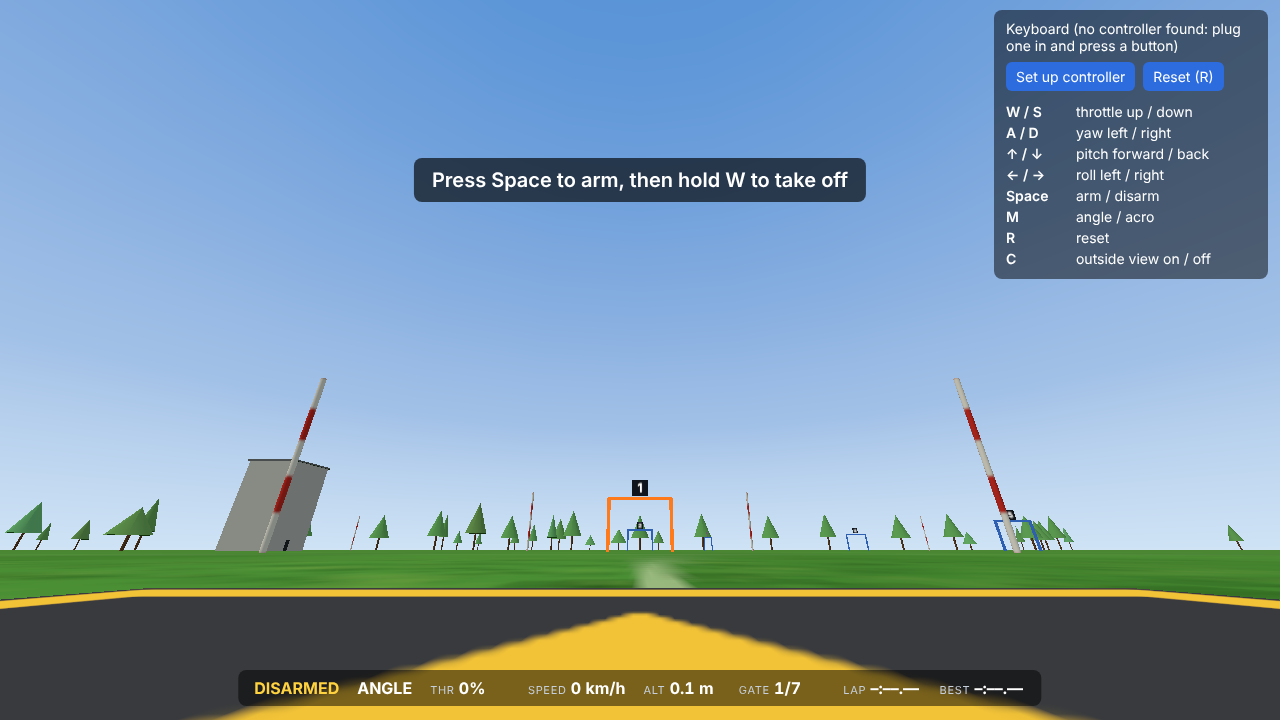
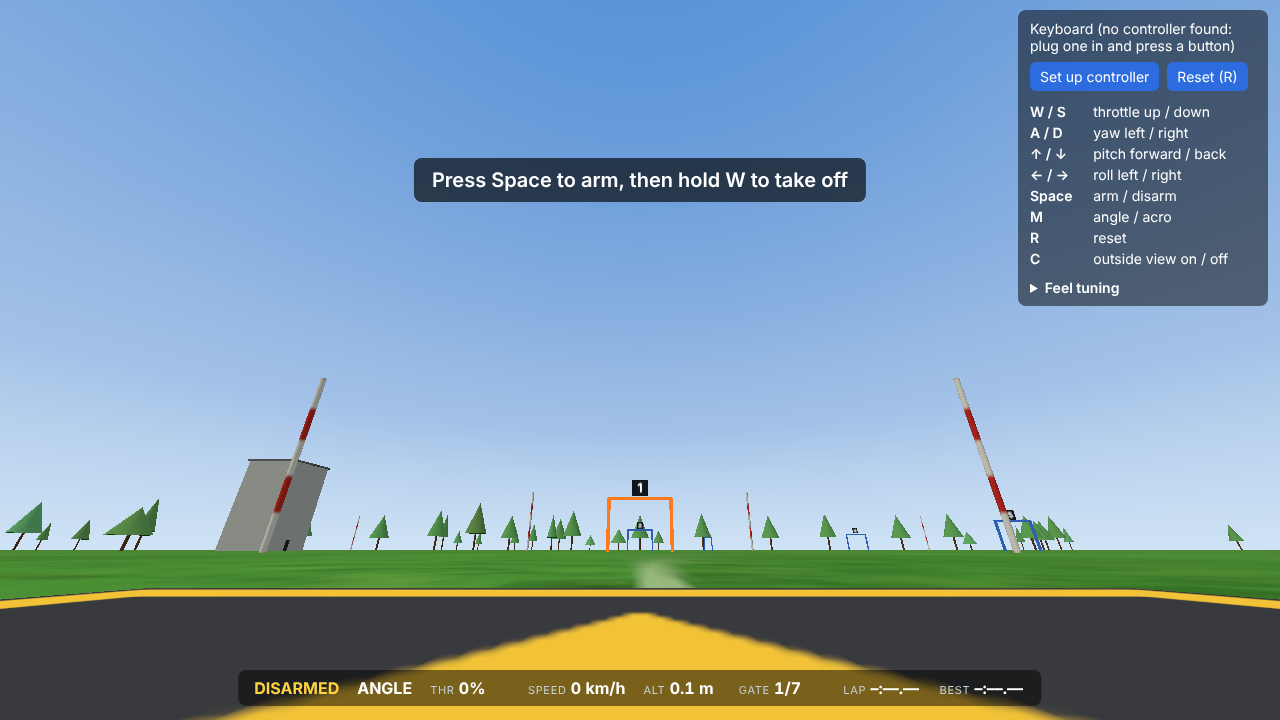
M5 feel: Feel tuning panel (preset, 8 sliders, Reset to default), Trainer preset, spring-stick throttle centred on hover, unit + browser checks

Changed region(s): [[0.75, 0.0, 1.0, 0.4278]]

diff --git a/src/main.js b/src/main.js
@@ -9,6 +9,8 @@ import { InputManager, KEY_HELP } from './input.js';
 import { SetupScreen } from './setup.js';
 import { createWorld } from './world.js';
 import { buildScene, buildGates, buildQuadModel, verticalFov } from './scene.js';
+import { PRESETS } from './params.js';
+import { SLIDERS, defaultTuning, sanitizeTuning, buildConfig, loadTuning, saveTuning } from './tuning.js';
 import { createRace, resetRace, raceUpdate, formatLap, loadBest, saveBest } from './course.js';
 
 // View settings (M6 puts these in the settings panel).
@@ -19,19 +21,32 @@ const view = {
 };
 const CRASH_PAUSE = 1.5; // s shown "crashed" before the automatic reset
 
+let storage = null;
+try { storage = window.localStorage; } catch { /* blocked: settings and best lap last until the page closes */ }
+const params = new URLSearchParams(location.search);
 const world = createWorld();
 const sim = createSim({ mode: MODES.ANGLE, world });
 // Sticks the sim flies on: copied from the controller/keyboard each frame, unless a test script has taken over.
 const sticks = { roll: 0, pitch: 0, yaw: 0, throttle: 0 };
 const input = new InputManager(window);
 const setup = new SetupScreen(input);
+// Feel tuning: preset + sliders (src/tuning.js). ?preset=freestyle|trainer in the URL starts from that preset's defaults.
+let tuning = params.has('preset') ? defaultTuning(params.get('preset')) : (storage && loadTuning(storage)) || defaultTuning();
+let config = null;
+function applyTuning(next, save = true) {
+  tuning = sanitizeTuning(next);
+  config = buildConfig(tuning);
+  Object.assign(sim.quad, config.quad);
+  Object.assign(sim.fcCfg, config.fc);
+  input.tune = config.input;
+  if (save && storage) saveTuning(storage, tuning);
+  if (typeof renderTuning === 'function') renderTuning();
+}
 let scripted = false; // true once the flight script drives the sticks directly (window.__sim.setSticks)
 let crashTimer = 0;
 let crashes = 0;
 
 // Gate course and lap timer. The best lap is kept in the browser (localStorage), per course.
-let storage = null;
-try { storage = window.localStorage; } catch { /* blocked: best lap lasts until the page closes */ }
 const race = createRace(world.course, storage ? loadBest(world.course, storage) : null);
 let racePrev = null;      // quad position and sim time at the previous frame
 let toast = null;         // { text, best, left } message in the middle of the screen (lap done)
@@ -49,7 +64,8 @@ function toggleMode() { sim.mode = sim.mode === MODES.ACRO ? MODES.ANGLE : MODES
 // Test hook: the Playwright flight script (test/flight.mjs) drives and reads the sim through this.
 const hook = (window.__sim = {
   ready: false, frames: 0, errors: [], physicsHz: PHYSICS_HZ, physicsSteps: 0,
-  sim, sticks, input, setup, view, world, race, get scene() { return scene; }, get camera() { return camera; },
+  sim, sticks, input, setup, view, world, race, get tuning() { return tuning; }, get config() { return config; },
+  setTuning(t) { applyTuning({ ...tuning, ...t }); }, get scene() { return scene; }, get camera() { return camera; },
   setSticks(s) { scripted = true; Object.assign(sticks, s); },
   arm(on = true) { scripted = true; sim.armed = on; },
   setMode(m) { sim.mode = m; },
@@ -85,10 +101,30 @@ const keysEl = document.getElementById('keys');
 keysEl.innerHTML = KEY_HELP.map(([k, v]) => `<tr><td>${k}</td><td>${v}</td></tr>`).join('');
 document.getElementById('btn-setup').addEventListener('click', (e) => { e.currentTarget.blur(); setup.start(); });
 document.getElementById('btn-reset').addEventListener('click', (e) => { e.currentTarget.blur(); resetFlight(); });
+
+// Feel tuning panel.
+const presetEl = document.getElementById('tune-preset'), slidersEl = document.getElementById('tune-sliders'), tuneInfo = document.getElementById('tune-info');
+presetEl.innerHTML = Object.entries(PRESETS).map(([k, p]) => `<option value="${k}">${p.label}</option>`).join('');
+slidersEl.innerHTML = SLIDERS.map((s) => `<label class="tune-row"><span>${s.label}</span><output id="tune-out-${s.key}"></output>
+  <input type="range" id="tune-${s.key}" min="${s.min}" max="${s.max}" step="${s.step}"></label>`).join('');
+function renderTuning() {
+  presetEl.value = tuning.preset;
+  for (const s of SLIDERS) {
+    const v = s.key === 'throttleMid' ? config.input.throttleMid : tuning[s.key];
+    document.getElementById('tune-' + s.key).value = String(v);
+    document.getElementById('tune-out-' + s.key).textContent = s.show(v) + (s.key === 'throttleMid' && tuning.throttleMid === null ? ' (hover)' : '');
+  }
+  tuneInfo.textContent = `Hovers at ${Math.round(config.hover * 100)}% throttle. Throttle centre and expo apply to spring-centred sticks (gamepads).`;
+}
+presetEl.addEventListener('change', () => applyTuning({ ...tuning, preset: presetEl.value }));
+for (const s of SLIDERS) document.getElementById('tune-' + s.key).addEventListener('input', (e) => applyTuning({ ...tuning, [s.key]: Number(e.target.value) }));
+for (const el of [presetEl, ...slidersEl.querySelectorAll('input')]) el.addEventListener('change', () => el.blur()); // give the keys back to flying
+document.getElementById('tune-reset').addEventListener('click', (e) => { e.currentTarget.blur(); applyTuning(defaultTuning(tuning.preset)); });
+applyTuning(tuning, false);
 window.addEventListener('keydown', (e) => { if (e.code === 'KeyC' && !e.repeat) view.chase = !view.chase; });
 
 // ?fast in the URL turns antialiasing off (slow machines, and the software-GL test browser).
-const fast = new URLSearchParams(location.search).has('fast');
+const fast = params.has('fast');
 const renderer = new THREE.WebGLRenderer({ canvas, antialias: !fast });
 renderer.setPixelRatio(Math.min(window.devicePixelRatio, 2));
 const scene = buildScene(world, renderer, { fast });

diff --git a/src/tuning.js b/src/tuning.js
@@ -1,0 +1,64 @@
+// Feel tuning: a preset plus a few named sliders, turned into sim and input settings. Pure except load/save.
+// Defaults are the sourced values (docs/feel.md); "Reset to default" goes back to them.
+import { defaultQuad, defaultFc, hoverStick, PRESETS, DEFAULT_PRESET } from './params.js';
+
+export const TUNING_KEY = 'fpvsim.tuning.v1';
+
+// key, label, range, and how the value is shown.
+export const SLIDERS = [
+  { key: 'rateMax', label: 'Max rate (full stick)', min: 200, max: 1200, step: 10, show: (v) => `${v}°/s` },
+  { key: 'rateCenter', label: 'Centre sensitivity', min: 20, max: 300, step: 5, show: (v) => `${v}°/s` },
+  { key: 'expo', label: 'Expo', min: 0, max: 1, step: 0.05, show: (v) => v.toFixed(2) },
+  { key: 'responsiveness', label: 'Responsiveness', min: 0.3, max: 1.5, step: 0.05, show: (v) => `${Math.round(v * 100)}%` },
+  { key: 'floatiness', label: 'Floatiness', min: 0.5, max: 2, step: 0.05, show: (v) => `${Math.round(v * 100)}%` },
+  { key: 'throttleMid', label: 'Throttle at stick centre', min: 0.05, max: 0.6, step: 0.01, show: (v) => `${Math.round(v * 100)}%` },
+  { key: 'throttleExpo', label: 'Throttle expo', min: 0, max: 1, step: 0.05, show: (v) => v.toFixed(2) },
+  { key: 'deadzone', label: 'Stick deadzone', min: 0, max: 0.2, step: 0.01, show: (v) => `${Math.round(v * 100)}%` },
+];
+
+export function defaultTuning(preset = DEFAULT_PRESET) {
+  const fc = defaultFc();
+  return {
+    preset: PRESETS[preset] ? preset : DEFAULT_PRESET,
+    rateMax: fc.rates.roll.max, rateCenter: fc.rates.roll.center, expo: fc.rates.roll.expo, // Betaflight defaults
+    responsiveness: 1,   // scales the rate-loop gains (1 = the measured 45 ms response)
+    floatiness: 1,       // divides air drag: higher = coasts longer
+    throttleMid: null,   // throttle with a spring-centred stick at rest; null = this preset's hover throttle
+    throttleExpo: 0,     // Betaflight default
+    deadzone: 0.05,
+  };
+}
+
+const num = (v, lo, hi, dflt) => (Number.isFinite(v) ? Math.max(lo, Math.min(hi, v)) : dflt);
+
+// Clean up anything loaded from storage: unknown preset, missing or out-of-range numbers.
+export function sanitizeTuning(t) {
+  const d = defaultTuning(t && t.preset);
+  if (!t || typeof t !== 'object') return d;
+  for (const s of SLIDERS) {
+    if (s.key === 'throttleMid' && (t.throttleMid === null || t.throttleMid === undefined)) continue;
+    d[s.key] = num(t[s.key], s.min, s.max, d[s.key]);
+  }
+  if (d.rateCenter > d.rateMax) d.rateCenter = d.rateMax;
+  return d;
+}
+
+// Tuning -> the numbers the sim and the input layer use.
+export function buildConfig(tuning) {
+  const t = sanitizeTuning(tuning), p = PRESETS[t.preset];
+  const quad = defaultQuad(), fc = defaultFc();
+  fc.throttleLimit = p.throttleLimit;
+  for (const axis of ['roll', 'pitch', 'yaw']) fc.rates[axis] = { center: t.rateCenter, max: t.rateMax, expo: t.expo };
+  fc.kp *= t.responsiveness; fc.kd *= t.responsiveness;
+  quad.dragLinear /= t.floatiness; quad.dragQuadratic /= t.floatiness;
+  const hover = hoverStick(quad, fc);
+  return { tuning: t, quad, fc, hover,
+    input: { throttleMid: t.throttleMid ?? hover, throttleExpo: t.throttleExpo, deadzone: t.deadzone } };
+}
+
+export function loadTuning(storage) {
+  try { const raw = storage.getItem(TUNING_KEY); return raw ? sanitizeTuning(JSON.parse(raw)) : null; } catch { return null; }
+}
+export function saveTuning(storage, t) {
+  try { storage.setItem(TUNING_KEY, JSON.stringify(t)); return true; } catch { return false; }
+}

diff --git a/src/input.js b/src/input.js
@@ -24,6 +24,7 @@ export function defaultMapping(id = '') {
     arm: { type: 'button', index: 0, kind: 'toggle' },
     mode: { type: 'button', index: 3, kind: 'toggle' },
     reset: { type: 'button', index: 1, kind: 'toggle' },
+    springThrottle: true, // gamepad sticks snap back to the middle: stick centre gives "throttle mid" (about hover)
   };
 }
 
@@ -43,14 +44,26 @@ export function sourceOn(src, axes, buttons) {
   return pressed(buttons[src.index]);
 }
 
+// Throttle for a spring-centred stick. x = stick position 0..1 (0.5 at rest). Bottom = 0, centre = mid, top = 1,
+// so letting go means "about hover", not "half power". expo flattens the curve around the centre (0 = two straight lines).
+export function throttleCurve(x, mid, expo = 0) {
+  const t = Math.max(-1, Math.min(1, 2 * x - 1));
+  const shaped = t * (1 - expo) + t * t * t * expo;
+  return t < 0 ? mid * (1 + shaped) : mid + (1 - mid) * shaped;
+}
+
 // Raw gamepad readings -> sticks. Throttle maps the axis range -1..1 to 0..1 and has no deadzone.
-export function readSticks(axes, mapping) {
-  const dz = mapping.deadzone ?? DEFAULT_DEADZONE, a = mapping.axes;
+// opts (from the Feel tuning panel): { deadzone, throttleMid, throttleExpo }. The throttle curve only applies to
+// spring-centred sticks (mapping.springThrottle); a radio's throttle stays linear.
+export function readSticks(axes, mapping, opts = {}) {
+  const dz = opts.deadzone ?? mapping.deadzone ?? DEFAULT_DEADZONE, a = mapping.axes;
+  let throttle = a.throttle ? (axisVal(axes, a.throttle) + 1) / 2 : 0;
+  if (mapping.springThrottle && Number.isFinite(opts.throttleMid)) throttle = throttleCurve(throttle, opts.throttleMid, opts.throttleExpo || 0);
   return {
     roll: applyDeadzone(axisVal(axes, a.roll), dz),
     pitch: applyDeadzone(axisVal(axes, a.pitch), dz),
     yaw: applyDeadzone(axisVal(axes, a.yaw), dz),
-    throttle: a.throttle ? (axisVal(axes, a.throttle) + 1) / 2 : 0,
+    throttle,
   };
 }
 
@@ -179,6 +192,7 @@ export class InputManager {
     this.prev = { arm: false, mode: false, reset: false };
     this.events = [];             // 'mode', 'reset' (consumed by main each frame)
     this.acroSwitch = null;       // true/false when the mode source is a switch
+    this.tune = {};               // { deadzone, throttleMid, throttleExpo } from the Feel tuning panel
     this.paused = false;          // true while the setup wizard owns the controller
     win.addEventListener('keydown', (e) => this.onKey(e, true));
     win.addEventListener('keyup', (e) => this.onKey(e, false));
@@ -242,7 +256,7 @@ export class InputManager {
     if (map) {
       if (this.source !== 'gamepad') this.prev = { arm: true, mode: true, reset: true }; // no phantom edges on connect
       this.source = 'gamepad';
-      Object.assign(this.sticks, readSticks(pad.axes, map));
+      Object.assign(this.sticks, readSticks(pad.axes, map, this.tune));
       for (const key of ['arm', 'mode', 'reset']) {
         const src = map[key];
         const on = sourceOn(src, pad.axes, pad.buttons);

diff --git a/src/style.css b/src/style.css
@@ -37,3 +37,12 @@ button:focus-visible { outline: 2px solid #fff; outline-offset: 2px; }
 #setup .bars { display: grid; gap: 5px; }
 #setup .bar { position: relative; height: 8px; background: #33405a; border-radius: 4px; }
 #setup .bar i { position: absolute; top: -2px; width: 6px; height: 12px; margin-left: -3px; background: #ffb020; border-radius: 3px; }
+#tuning { margin-top: 10px; }
+#tuning summary { cursor: pointer; font-weight: 600; }
+#tuning .tune-row { display: grid; grid-template-columns: 1fr auto; gap: 2px 8px; margin-top: 8px; align-items: baseline; }
+#tuning .tune-row input[type=range] { grid-column: 1 / 3; width: 100%; margin: 0; }
+#tuning .tune-row output { font-variant-numeric: tabular-nums; color: #ffd23f; }
+#tuning select { font: inherit; max-width: 170px; }
+#tune-info { margin-top: 6px; color: #c5cedb; font-size: 12px; }
+#tune-reset { margin-top: 10px; }
+#panel { max-height: calc(100vh - 40px); overflow-y: auto; box-sizing: border-box; }

diff --git a/index.html b/index.html
@@ -29,6 +29,13 @@
     <button type="button" id="btn-reset">Reset (R)</button>
   </div>
   <table id="keys"></table>
+  <details id="tuning">
+    <summary>Feel tuning</summary>
+    <label class="tune-row">Quad <select id="tune-preset"></select></label>
+    <div id="tune-info"></div>
+    <div id="tune-sliders"></div>
+    <button type="button" id="tune-reset">Reset to default</button>
+  </details>
 </div>
 <div id="setup" hidden></div>
 <script type="module" src="src/main.js"></script>
